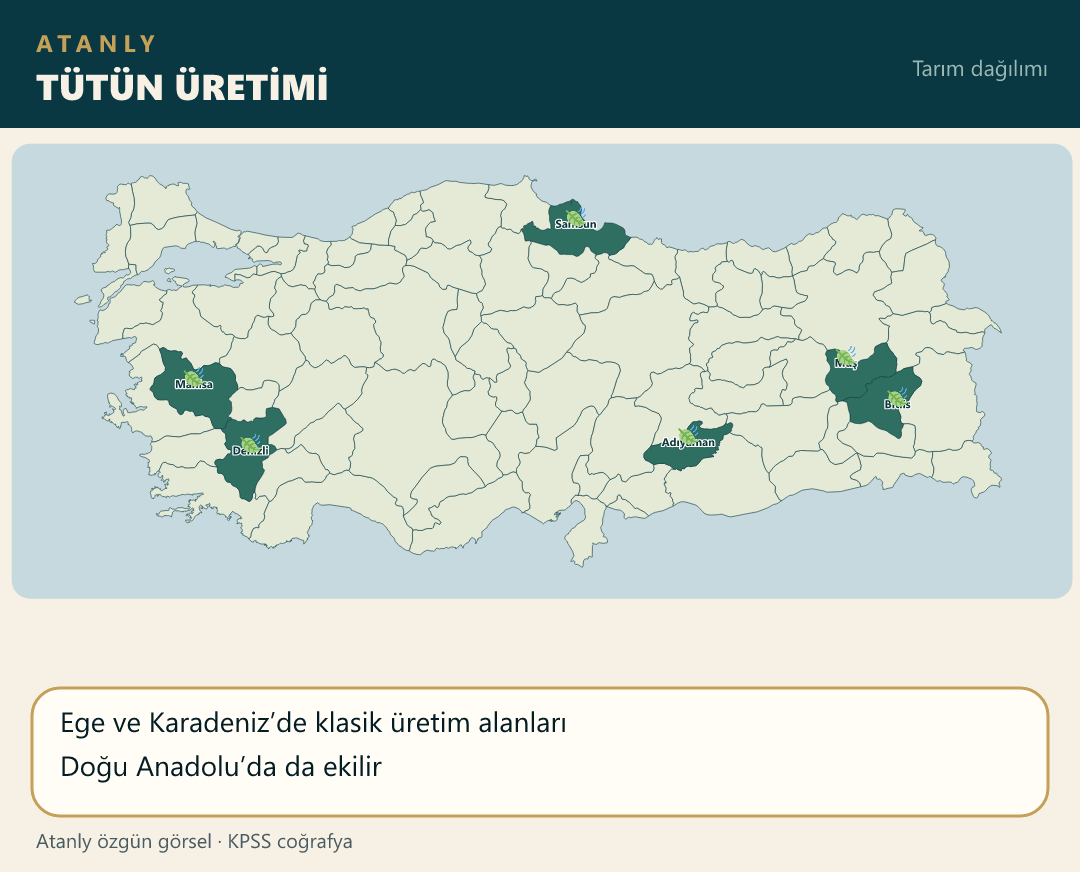
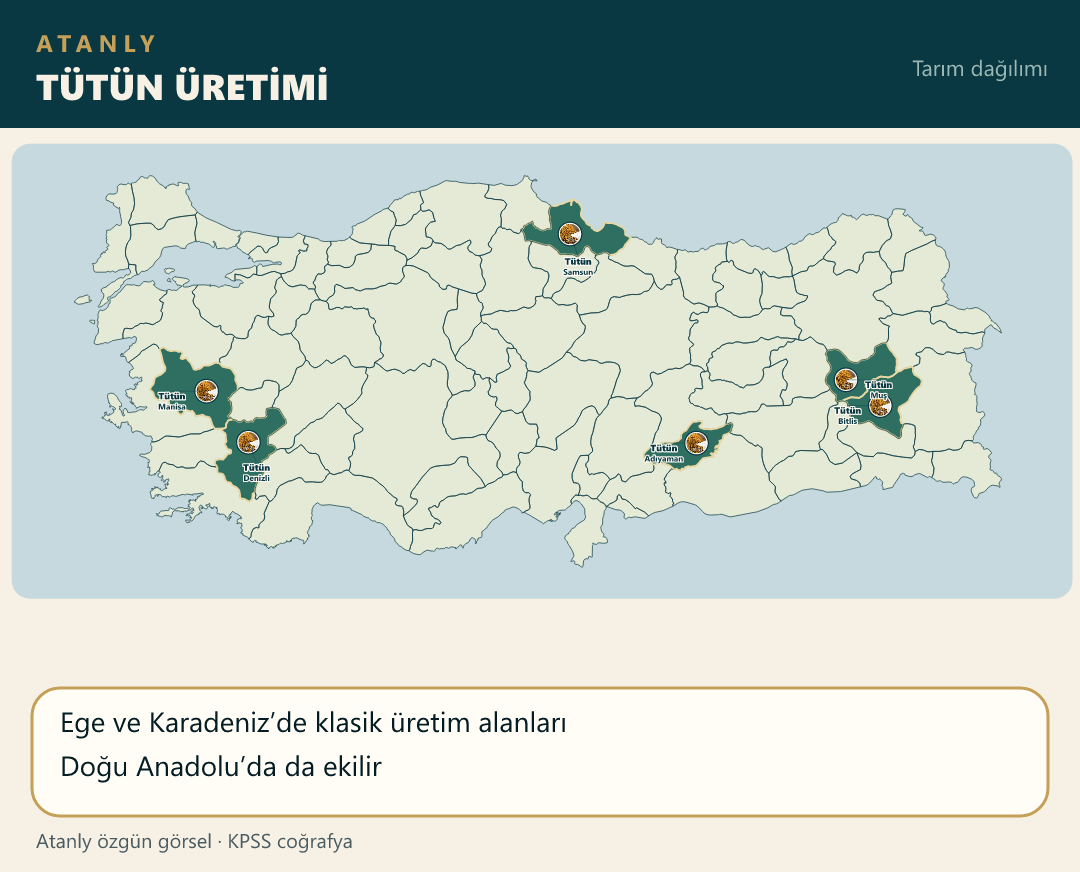
Place the tobacco photo on the production provinces' land-center pins.

diff --git a/scripts/build-atanly-maps.js b/scripts/build-atanly-maps.js
@@ -476,7 +476,7 @@ function topicIcon(file) {
         gul: "rose", elma: "elma", bugday: "bugday", pamuk: "cotton", zeytin: "olive",
         uzum: "grapes", misir: "corn", patates: "potato", arpa: "arpa", sekerpancar: "beet",
         hashas: "poppy", incir: "fig", kayisi: "apricot", muz: "banana", anason: "anason",
-        aspir: "aspir", susam: "sesame", tutun: "leaf", yerfistik: "peanut", antepfistik: "antepfistik",
+        aspir: "aspir", susam: "sesame", tutun: "tobacco", yerfistik: "peanut", antepfistik: "antepfistik",
         kirmizimercimek: "lentil", turunc: "citrus", kanola: "canola", pirinc: "rice",
         aycicek: "aycicek", findik: "findik", cay: "cay", kenevir: "hemp",
         kivrimdaglar: "fold-mtn", kirikdaglar: "fault-mtn", volkanikdaglar: "volcano",
@@ -715,7 +715,16 @@ function main() {
                 { il: "Adana", ldx: 8, ldy: 28 }
             ],
             facts: ["Sıcak iklim ister", "Akdeniz ve Ege kıyılarında yetişir"] },
-        { file: "tütün.png", title: "TÜTÜN ÜRETİMİ", iller: ["Manisa", "Denizli", "Samsun", "Adıyaman", "Bitlis", "Muş"], facts: ["Ege ve Karadeniz’de klasik üretim alanları", "Doğu Anadolu’da da ekilir"] },
+        { file: "tütün.png", title: "TÜTÜN ÜRETİMİ", urun: "Tütün",
+            noktalar: [
+                { il: "Manisa", ldx: -34, ldy: 8 },
+                { il: "Denizli", ldx: 8, ldy: 28 },
+                { il: "Samsun", ldx: 8, ldy: 30 },
+                { il: "Adıyaman", ldx: -32, ldy: 8 },
+                { il: "Bitlis", ldx: -32, ldy: 8 },
+                { il: "Muş", ldx: 32, ldy: 8 }
+            ],
+            facts: ["Ege ve Karadeniz’de klasik üretim alanları", "Doğu Anadolu’da da ekilir"] },
         { file: "yer_fıstık.png", title: "YER FISTIĞI", iller: ["Osmaniye", "Adana", "Aydın", "Kahramanmaraş"], facts: ["Çukurova ve Osmaniye öne çıkar", "Sıcaklık ve kumlu-tınlı toprak ister"] },
         { file: "antep_fıstık.png", title: "ANTEP FISTIĞI", urun: "Antep fıstığı",
             noktalar: [

diff --git a/notlar/cografya-19-not.js b/notlar/cografya-19-not.js
@@ -2,7 +2,7 @@
 (function () {
     function harita(src, alt) {
         return '<div class="mt-4 overflow-hidden rounded-xl border border-blue-200 dark:border-blue-700/50 bg-white dark:bg-slate-800 p-2">' +
-            '<img src="./src/img/' + src + '?v=37" alt="' + alt + ' Haritası" class="w-full h-auto rounded-lg object-contain" loading="lazy">' +
+            '<img src="./src/img/' + src + '?v=38" alt="' + alt + ' Haritası" class="w-full h-auto rounded-lg object-contain" loading="lazy">' +
             "</div>";
     }
 

diff --git a/index.html b/index.html
@@ -117,7 +117,7 @@
     <script src="notlar/cografya-16-not.js?v=3"></script>
     <script src="notlar/cografya-17-not.js?v=3"></script>
     <script src="notlar/cografya-18-not.js?v=18"></script>
-    <script src="notlar/cografya-19-not.js?v=33"></script>
+    <script src="notlar/cografya-19-not.js?v=34"></script>
     <script src="notlar/cografya-20-not.js?v=1"></script>
     <script src="notlar/cografya-21-not.js?v=32"></script>
     <script src="notlar/cografya-22-not.js?v=1"></script>
